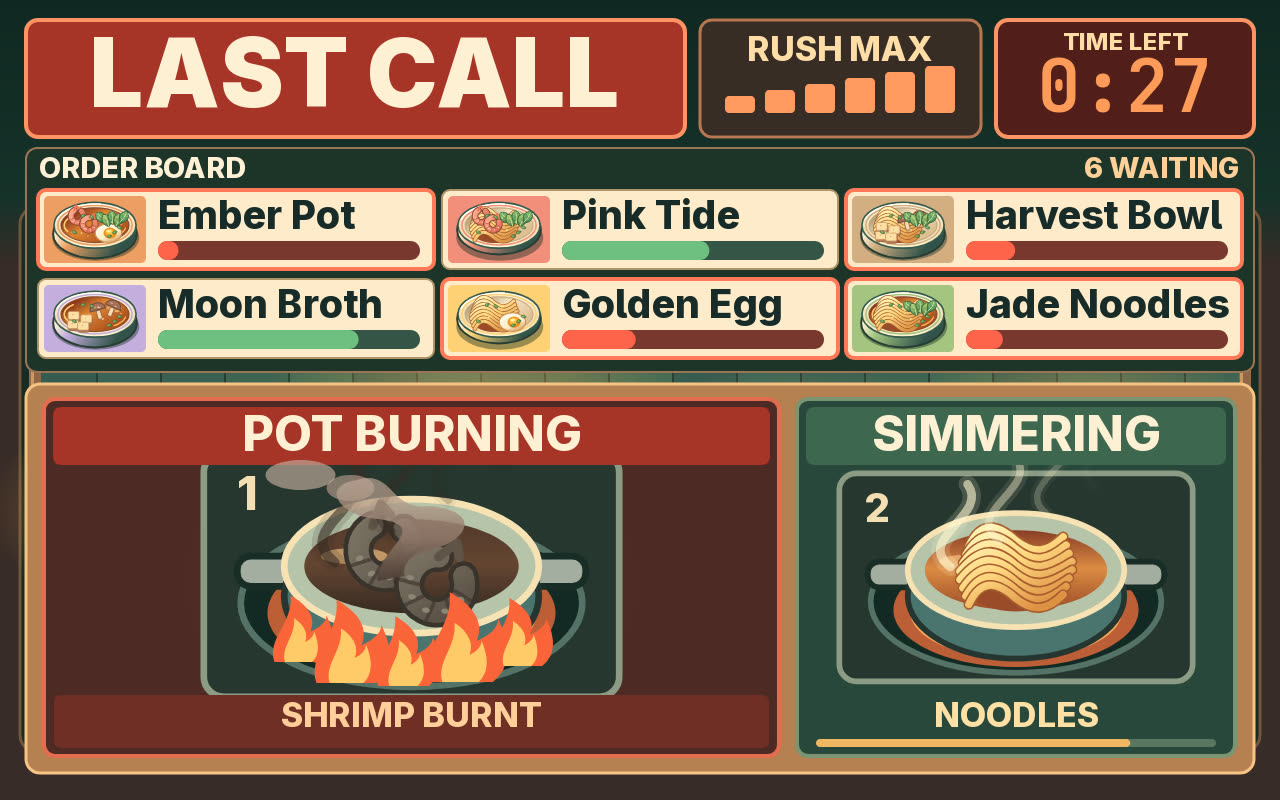
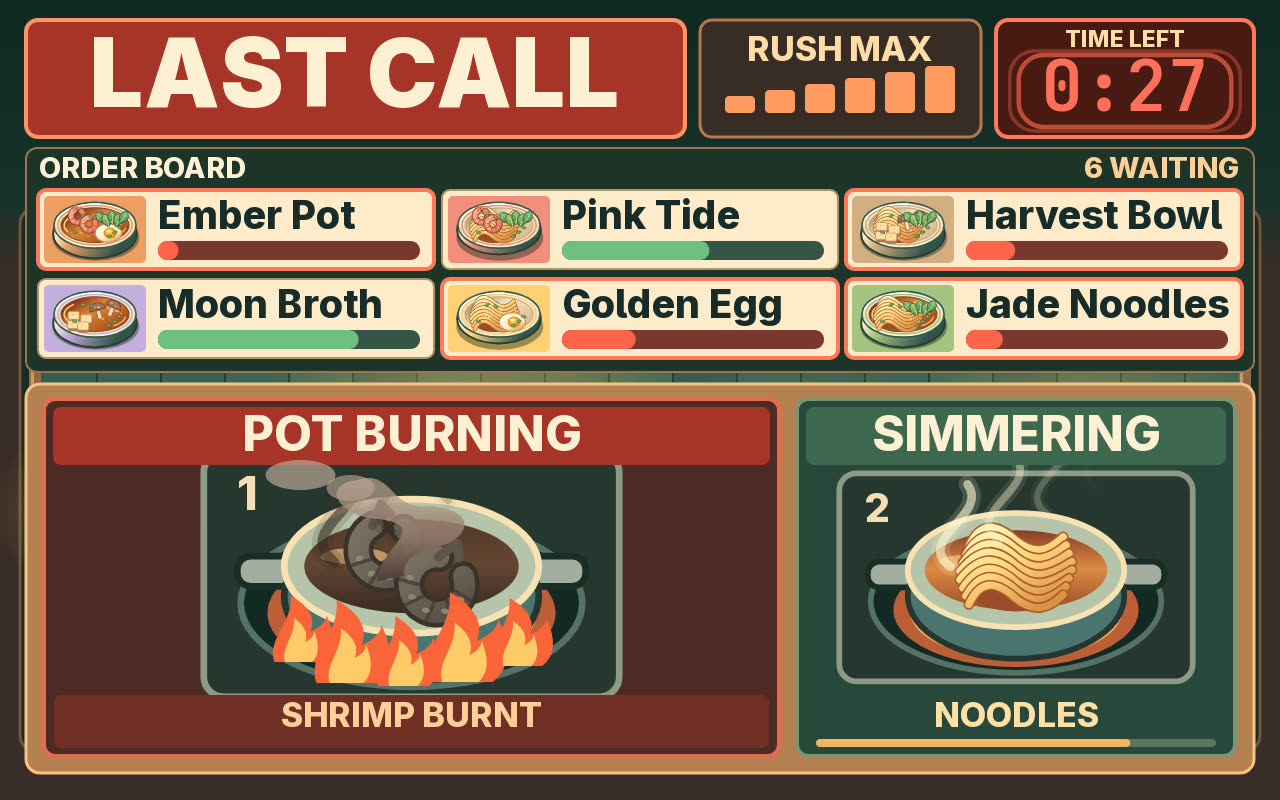
v10: visible route tradeoff, recipe combinations, urgent shift timer

Changed region(s): [[0.7812, 0.0, 1.0, 0.1875]]

diff --git a/game/src/ui.js b/game/src/ui.js
@@ -33,7 +33,7 @@ export function drawServiceHud(ctx, state) {
     }
   }
 
-  drawShiftTimer(ctx, state.elapsed);
+  drawShiftTimer(ctx, state.elapsed, rushCover ? state.coverMotion : null);
 
   panel(ctx, 1036, 15, 224, 69, 9, '#213e33', '#49675a');
   oval(ctx, 1058, 37, 11, 11, '#eeb667', '#ffdb8a');
@@ -46,28 +46,45 @@ export function drawServiceHud(ctx, state) {
   drawOrderBoard(ctx, state);
 }
 
-function drawShiftTimer(ctx, elapsed) {
+function drawShiftTimer(ctx, elapsed, coverMotion) {
+  const cover = coverMotion !== null;
+  elapsed += coverMotion ?? 0;
   const remaining = Math.max(0, shiftLength - elapsed);
-  const urgent = remaining < 30;
+  const urgent = cover || remaining < 30;
   const color = urgent ? '#ff9b59' : '#ffda8b';
+  const pulse = (1 + Math.cos((coverMotion ?? 0) * 2 * Math.PI)) / 2;
   panel(ctx, 799, 11, 225, 74, 10, urgent ? '#5f3329' : '#2f3c2e', urgent ? '#e98352' : '#a78550', 2);
   const x = 841;
   const y = 48;
   oval(ctx, x, y, 25, 25, '#1e2c26', urgent ? '#90533d' : '#637358', 6);
   if (remaining > 0) {
     const start = -Math.PI / 2;
+    const end = start + 2 * Math.PI * remaining / shiftLength;
+    ctx.save();
+    if (cover) {
+      ctx.shadowColor = '#ff772f';
+      ctx.shadowBlur = 9 + pulse * 13;
+    }
     ctx.beginPath();
-    ctx.arc(x, y, 25, start, start + 2 * Math.PI * remaining / shiftLength);
+    ctx.arc(x, y, 25, start, end);
     ctx.strokeStyle = color;
-    ctx.lineWidth = urgent ? 7 + Math.sin(elapsed * 10) : 6;
+    ctx.lineWidth = cover ? 8 : urgent ? 7 + Math.sin(elapsed * 10) : 6;
     ctx.lineCap = 'round';
     ctx.stroke();
+    if (cover) oval(ctx, x + Math.cos(end) * 25, y + Math.sin(end) * 25, 4.5, 4.5, '#ffe4a1');
+    ctx.restore();
   }
   const angle = -Math.PI / 2 + 2 * Math.PI * (elapsed % 60) / 60;
   stroke(ctx, color, 2.5, [[x, y], [x + Math.cos(angle) * 14, y + Math.sin(angle) * 14]]);
   oval(ctx, x, y, 2.7, 2.7, color);
-  label(ctx, 'SHIFT TIMER', 945, 29, 17, color, { align: 'center' });
-  label(ctx, readShiftClock(elapsed), 945, 59, 44, '#fff0d7', { align: 'center', face: 'monospace' });
+  label(ctx, 'SHIFT TIMER', cover ? 880 : 945, 29, cover ? 19 : 17, color, { align: cover ? 'left' : 'center' });
+  label(ctx, readShiftClock(elapsed), cover ? 873 : 945, 59, cover ? 37 : 44, '#fff0d7', { align: cover ? 'left' : 'center', face: 'monospace' });
+  if (cover) {
+    ctx.save();
+    ctx.globalAlpha = .78 + pulse * .22;
+    label(ctx, '-0:01', 1015, 64, 19, '#ffba85', { align: 'right', face: 'monospace' });
+    ctx.restore();
+  }
 }
 
 function drawStallLantern(ctx, x, y) {
@@ -194,31 +211,31 @@ export function renderScreen(element, state) {
     drawDish(canvas.getContext('2d'), recipe.layers, canvas.width / 2, canvas.height * .46, canvas.width / 120, recipe.color, recipe.shape);
   }
   for (const canvas of element.querySelectorAll('[data-food]')) {
-    drawIngredient(canvas.getContext('2d'), canvas.dataset.food, canvas.width / 2, canvas.height / 2, 2.15, 'ready');
+    drawIngredient(canvas.getContext('2d'), canvas.dataset.food, canvas.width / 2, canvas.height / 2, 2, 'ready');
   }
 }
 
 function recipeBook() {
   return `<div class="sheet book-sheet">
     <header class="sheet-header">
-      <h1>Recipe Book</h1>
+      <h1>${Object.keys(ingredients).length} Ingredients → ${recipes.length} Dishes</h1>
       <button class="quiet" data-command="close">Close <kbd>R</kbd></button>
     </header>
     <ul class="recipe-grid">
       ${recipes.map(recipe => `<li class="recipe-card" style="--recipe-color:${recipe.color}">
-        <h2>${recipe.name}</h2>
-        <div class="recipe-build">
-          <canvas width="166" height="99" data-dish="${recipe.id}" aria-hidden="true"></canvas>
-          <ol class="recipe-layers" aria-label="Assembly order">
-            ${recipe.layers.map(id => {
-              const food = ingredients[id];
-              return `<li title="${food.name} · ${ingredientPrepLabel[food.route]}">
-                <span class="visually-hidden">${food.name}, ${ingredientPrepLabel[food.route]}</span>
-                <canvas width="82" height="81" data-food="${id}" aria-hidden="true"></canvas>
-              </li>`;
-            }).join('')}
-          </ol>
+        <div class="recipe-title">
+          <h2>${recipe.name}</h2>
+          <canvas width="128" height="75" data-dish="${recipe.id}" aria-hidden="true"></canvas>
         </div>
+        <ol class="recipe-layers" aria-label="Assembly order">
+          ${recipe.layers.map(id => {
+            const food = ingredients[id];
+            return `<li title="${food.name} · ${ingredientPrepLabel[food.route]}">
+              <span class="visually-hidden">${food.name}, ${ingredientPrepLabel[food.route]}</span>
+              <canvas width="128" height="115" data-food="${id}" aria-hidden="true"></canvas>
+            </li>`;
+          }).join('')}
+        </ol>
       </li>`).join('')}
     </ul>
   </div>`;

diff --git a/game/src/shots.js b/game/src/shots.js
@@ -32,6 +32,7 @@ export function stageScreenshot(state, scene) {
 
   if (scene === 'rush') {
     state.elapsed = 153;
+    state.rushMotion = .24;
     state.coins = 466;
     state.served = 7;
     state.combo = 5;
@@ -65,8 +66,8 @@ export function coverRoutePlan() {
   const stops = [chop, burners[1], plate];
   const { x, y, w } = coverIsland;
   const detour = [
-    { standX: x - 28, standY: y - 23 },
-    { standX: x + w + 31, standY: y - 23 },
+    { standX: x - 28, standY: y - 13 },
+    { standX: x + w + 31, standY: y - 13 },
   ];
   // Compare the complete walks at the cover's presentation pace.
   const start = { x: chop.standX, y: chop.standY, speed: 105 };
@@ -106,14 +107,14 @@ const coverControl = routeSegment(coverStart, coverEnd);
 
 export function drawRushView(ctx, state) {
   drawRoom(ctx);
-  drawRushHeader(ctx, state.elapsed);
+  drawRushHeader(ctx, state.elapsed, state.rushMotion);
   drawRushRail(ctx, state.orders);
   panel(ctx, 26, 384, 1228, 389, 14, '#b68051', '#f8c385', 3);
   drawRushBurner(ctx, state, 0, 44, 735);
   drawRushBurner(ctx, state, 1, 797, 438);
 }
 
-function drawRushHeader(ctx, elapsed) {
+function drawRushHeader(ctx, elapsed, motion) {
   const wave = serviceWave(elapsed);
   panel(ctx, 26, 20, 659, 117, 12, '#a73428', '#ff9365', 4);
   label(ctx, wave.name.toUpperCase(), 355, 78, 95, '#fff0d5', { align: 'center', weight: 950 });
@@ -126,9 +127,18 @@ function drawRushHeader(ctx, elapsed) {
     panel(ctx, 725 + i * 40, 113 - height, 30, height, 4, i / 6 < intensity ? '#ff9a61' : '#614138');
   }
 
-  panel(ctx, 996, 20, 258, 117, 12, '#531e1a', '#ff9365', 4);
-  label(ctx, 'TIME LEFT', 1125, 43, 24, '#ffdda8', { align: 'center' });
-  label(ctx, readShiftClock(elapsed), 1125, 92, 73, '#ff9b59', { align: 'center', face: 'monospace' });
+  panel(ctx, 996, 20, 258, 117, 12, '#491913', '#ff775c', 4);
+  ctx.save();
+  for (const offset of [0, .5]) {
+    const pulse = (motion + offset) % 1;
+    const w = 204 + pulse * 36;
+    const h = 68 + pulse * 16;
+    ctx.globalAlpha = .8 - pulse * .6;
+    panel(ctx, 1125 - w / 2, 91 - h / 2, w, h, 25, null, '#ff674f', 5 - pulse * 2);
+  }
+  ctx.restore();
+  label(ctx, 'TIME LEFT', 1125, 40, 23, '#ffdda8', { align: 'center' });
+  label(ctx, readShiftClock(elapsed), 1125, 92, 70, '#ff705b', { align: 'center', face: 'monospace' });
 }
 
 function drawRushRail(ctx, orders) {

diff --git a/game/src/kitchen.js b/game/src/kitchen.js
@@ -579,23 +579,29 @@ function drawCoverRoute(ctx, { stops, detour, fastest, slower }) {
   ctx.arcTo(...left, ...right, 14);
   ctx.arcTo(...right, ...plate, 14);
   ctx.lineTo(...plate);
-  ctx.setLineDash([5, 5]);
+  ctx.setLineDash([8, 7]);
   ctx.lineCap = 'round';
-  ctx.lineWidth = 3;
-  ctx.strokeStyle = '#e3ebc378';
+  ctx.lineWidth = 4;
+  ctx.strokeStyle = '#d6e1bd98';
   ctx.stroke();
   ctx.restore();
 
   drawTrail(ctx, chop, [stove, plate]);
   const labels = ['CHOP', 'STOVE', 'PLATE'];
   points.forEach(([x, y], index) => {
-    panel(ctx, x - 22, y + 18, 70, 23, 7, '#203b30');
-    label(ctx, labels[index], x + 13, y + 30, 16, '#fff1bf', { align: 'center' });
+    panel(ctx, x - 36, y + 18, 82, 23, 7, '#203b30');
+    label(ctx, labels[index], x + 5, y + 30, 20, '#fff1bf', { align: 'center' });
     oval(ctx, x, y, 17, 17, palette.gold, '#283d31', 3);
     label(ctx, String(index + 1), x, y + 1, 23, '#25342a', { align: 'center' });
   });
-  panel(ctx, 834, 400, 284, 32, 8, '#ffe1a0', '#304438');
-  label(ctx, `FASTEST ROUTE ${fastest} s (alt ${slower} s)`, 976, 416, 19, '#25342a', { align: 'center' });
+  panel(ctx, 473, 362, 341, 34, 8, '#213b30', '#a1b699');
+  label(ctx, `ALT ${slower} s — around island`, 643, 379, 25, '#e3edd3', { align: 'center' });
+
+  stroke(ctx, '#ffe1a0', 3, [[766, 477], [744, 477], [706, 510]]);
+  panel(ctx, 765, 457, 143, 40, 8, '#ffe1a0', '#304438');
+  label(ctx, `BEST ${fastest} s`, 836, 477, 28, '#25342a', { align: 'center' });
+  panel(ctx, 914, 460, 73, 34, 8, '#254637', '#bfd78b');
+  label(ctx, `-${slower - fastest} s`, 950, 477, 24, '#dcf2a4', { align: 'center' });
 }
 
 function drawTrail(ctx, from, points) {

diff --git a/game/ui.css b/game/ui.css
@@ -143,18 +143,20 @@ button:focus-visible { outline: 3px solid #ffa86e; outline-offset: 5px; }
   color: #27392e;
 }
 .recipe-card h2 {
-  margin: 0 4px 6px;
-  font-size: 88px;
+  margin: 0 4px;
+  font-size: 68px;
   font-weight: 900;
   letter-spacing: -.05em;
   line-height: 1;
 }
-.recipe-build {
+.recipe-title {
   display: flex;
   align-items: center;
-  gap: 10px;
+  justify-content: space-between;
+  gap: 8px;
+  margin-bottom: 7px;
 }
-.recipe-build > canvas {
+.recipe-title > canvas {
   display: block;
   flex: none;
   background: var(--recipe-color);
@@ -163,23 +165,31 @@ button:focus-visible { outline: 3px solid #ffa86e; outline-offset: 5px; }
 .recipe-layers {
   display: flex;
   align-items: center;
-  gap: 16px;
+  gap: 20px;
   list-style: none;
   margin: 0;
   padding: 0;
 }
 .recipe-layers li {
+  display: grid;
+  place-items: center;
   position: relative;
+  width: 128px;
+  height: 115px;
   background: #274537;
   border-radius: 7px;
+}
+.recipe-layers li:has([data-food="greens"]) {
+  box-shadow: inset 0 0 0 6px #a7cf64;
+  background: #1b3d31;
 }
 .recipe-layers li + li::before {
   position: absolute;
   top: 50%;
-  left: -17px;
-  transform: translateY(-56%);
-  content: '›';
-  color: #895833;
+  left: -10px;
+  transform: translate(-50%, -54%);
+  content: '+' / '';
+  color: #64432e;
   font-size: 33px;
   font-weight: 850;
 }

diff --git a/game/src/game.js b/game/src/game.js
@@ -14,10 +14,11 @@ export function startGame() {
     const dt = Math.max(0, Math.min(.05, (now - last) / 1000));
     last = now;
     if (state.screen === 'play' && !state.staged) updateShift(state, dt, input.read());
-    if (state.shot === 'cover' && !stillCover) {
+    if (state.shot === 'cover' && !stillShot) {
       state.coverMotion = (state.coverMotion + dt) % 3;
       moveCoverCook(state);
     }
+    if (state.shot === 'rush' && !stillShot) state.rushMotion += dt;
     if (paintedScreen !== state.screen) {
       renderScreen(screen, state);
       paintedScreen = state.screen;
@@ -90,7 +91,7 @@ export function startGame() {
   const audio = createKitchenAudio();
   const coverPlan = coverRoutePlan();
   const query = new URLSearchParams(location.search);
-  const stillCover = query.has('still') || matchMedia('(prefers-reduced-motion: reduce)').matches;
+  const stillShot = query.has('still') || matchMedia('(prefers-reduced-motion: reduce)').matches;
   const seed = Number(query.get('seed') ?? new Date().getDate());
   const newShift = () => createShift(seed, audio.play, message => { announcement.textContent = message; });
   let state = newShift();
